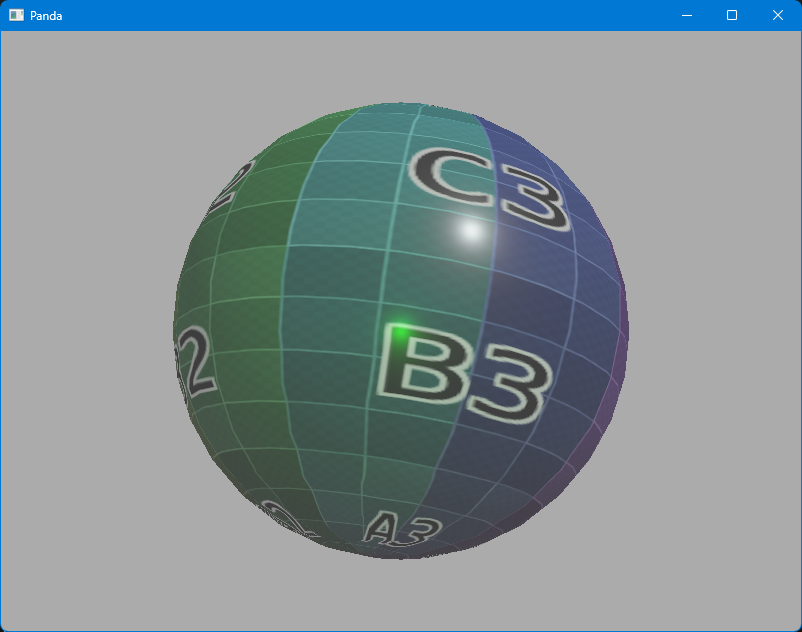
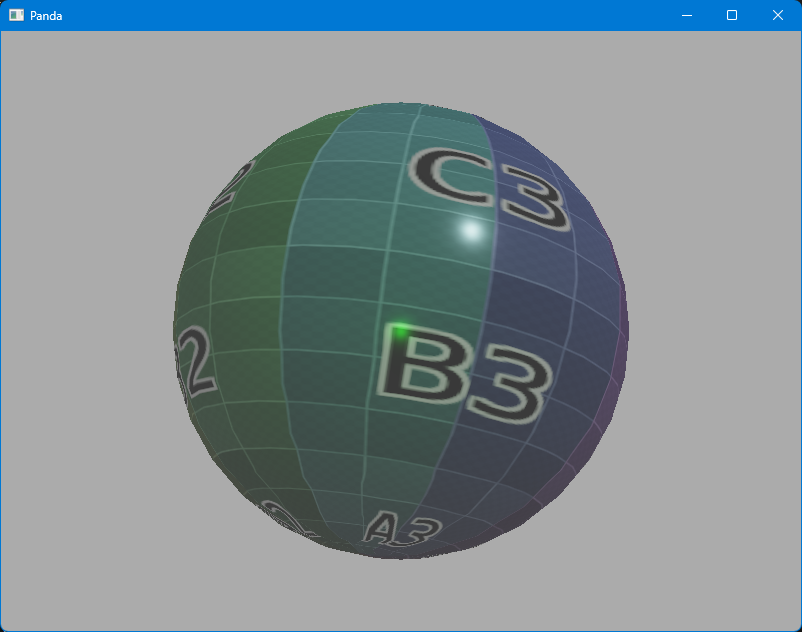
Fix lighting in PBR lesson 6.

Changed region(s): [[0.4988, 0.1804, 0.717, 0.4509], [0.4676, 0.481, 0.6858, 0.6915], [0.4676, 0.3006, 0.4988, 0.3307]]

diff --git a/pbr/06-fog/main.py b/pbr/06-fog/main.py
@@ -30,7 +30,7 @@ class ShaderDemo(ShowBase):
 
         # Setup lighting
         self.ambient_light = self.render.attach_new_node(AmbientLight("AmbientLight"))
-        self.ambient_light.node().set_color(Vec4(.04, .04, .04, 1))
+        self.ambient_light.node().set_color(Vec4(.2, .2, .2, 1))
         self.render.set_light(self.ambient_light)
 
         self.sun = self.render.attach_new_node(DirectionalLight("Sun"))

diff --git a/pbr/06-fog/README.md b/pbr/06-fog/README.md
@@ -57,7 +57,6 @@ To apply fog to each fragment, we also need to rewrite our `main` function like 
 void main() {
     // Calculate base color
     vec4 baseColor = texture(p3d_Texture0, uv);
-    baseColor = srgbToLinear(baseColor);
 
     // Calculate final color
     p3d_FragColor = applyFog(applyLighting(baseColor));
